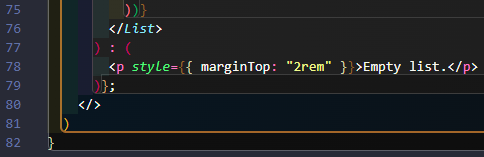
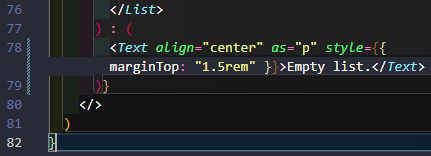
chore: change to ui component

diff --git a/screenshots/sampleEmptyItemListMsg.jsx b/screenshots/sampleEmptyItemListMsg.jsx
@@ -1,5 +1,5 @@
 import 'dracula-ui/styles/dracula-ui.css';
-import { List, Checkbox } from 'dracula-ui';
+import { List, Checkbox, Text } from 'dracula-ui';
 import { useState } from 'react';
 import { FaTrashAlt } from 'react-icons/fa';
 
@@ -75,8 +75,8 @@ export default function ItemList() {
           ))}
         </List>
       ) : (
-        <p style={{ marginTop: "2rem" }}>Empty list.</p>
-      )};
+        <Text align="center" as="p" style={{ marginTop: "1.5rem" }}>Empty list.</Text>
+      )}
     </>
   )
 }

diff --git a/src/components/ItemList.jsx b/src/components/ItemList.jsx
@@ -1,5 +1,5 @@
 import 'dracula-ui/styles/dracula-ui.css';
-import { List, Checkbox } from 'dracula-ui';
+import { List, Checkbox, Text } from 'dracula-ui';
 import { useState } from 'react';
 import { FaTrashAlt } from 'react-icons/fa';
 
@@ -75,8 +75,8 @@ export default function ItemList() {
           ))}
         </List>
       ) : (
-        <p style={{ marginTop: "2rem" }}>Empty list.</p>
-      )};
+        <Text align="center" as="p" style={{ marginTop: "1.5rem" }}>Empty list.</Text>
+      )}
     </>
   )
 }

diff --git a/README.md b/README.md
@@ -382,13 +382,17 @@ This saves the state to **local storage**.
 
 3. Tab all the code over.
 
-4. After the closing `</List>` tag and **one indentation in**, continue the ternary. Add a `<p>` tag with a style expression and our message.
+4. After the closing `</List>` tag and **one indentation in**, continue the ternary.
 
-5. Paste the `)}` to close out the ternary operator.
+5. Add the Dracula UI `Text` component to the **import statement** on _line 2_.
 
-6. One indent **in** add the closing fragment, `</>`.
+6. Add a `<Text>` tag with a style expression and our message.
 
-7. Close the **return statement** and **function**.
+7. Paste the `)}` to close out the ternary operator.
+
+8. One indent **in** add the closing fragment, `</>`.
+
+9. Close the **return statement** and **function**.
 
 ![end of the ternary operation, JSX, and function](screenshots/ItemList6.png)
 
